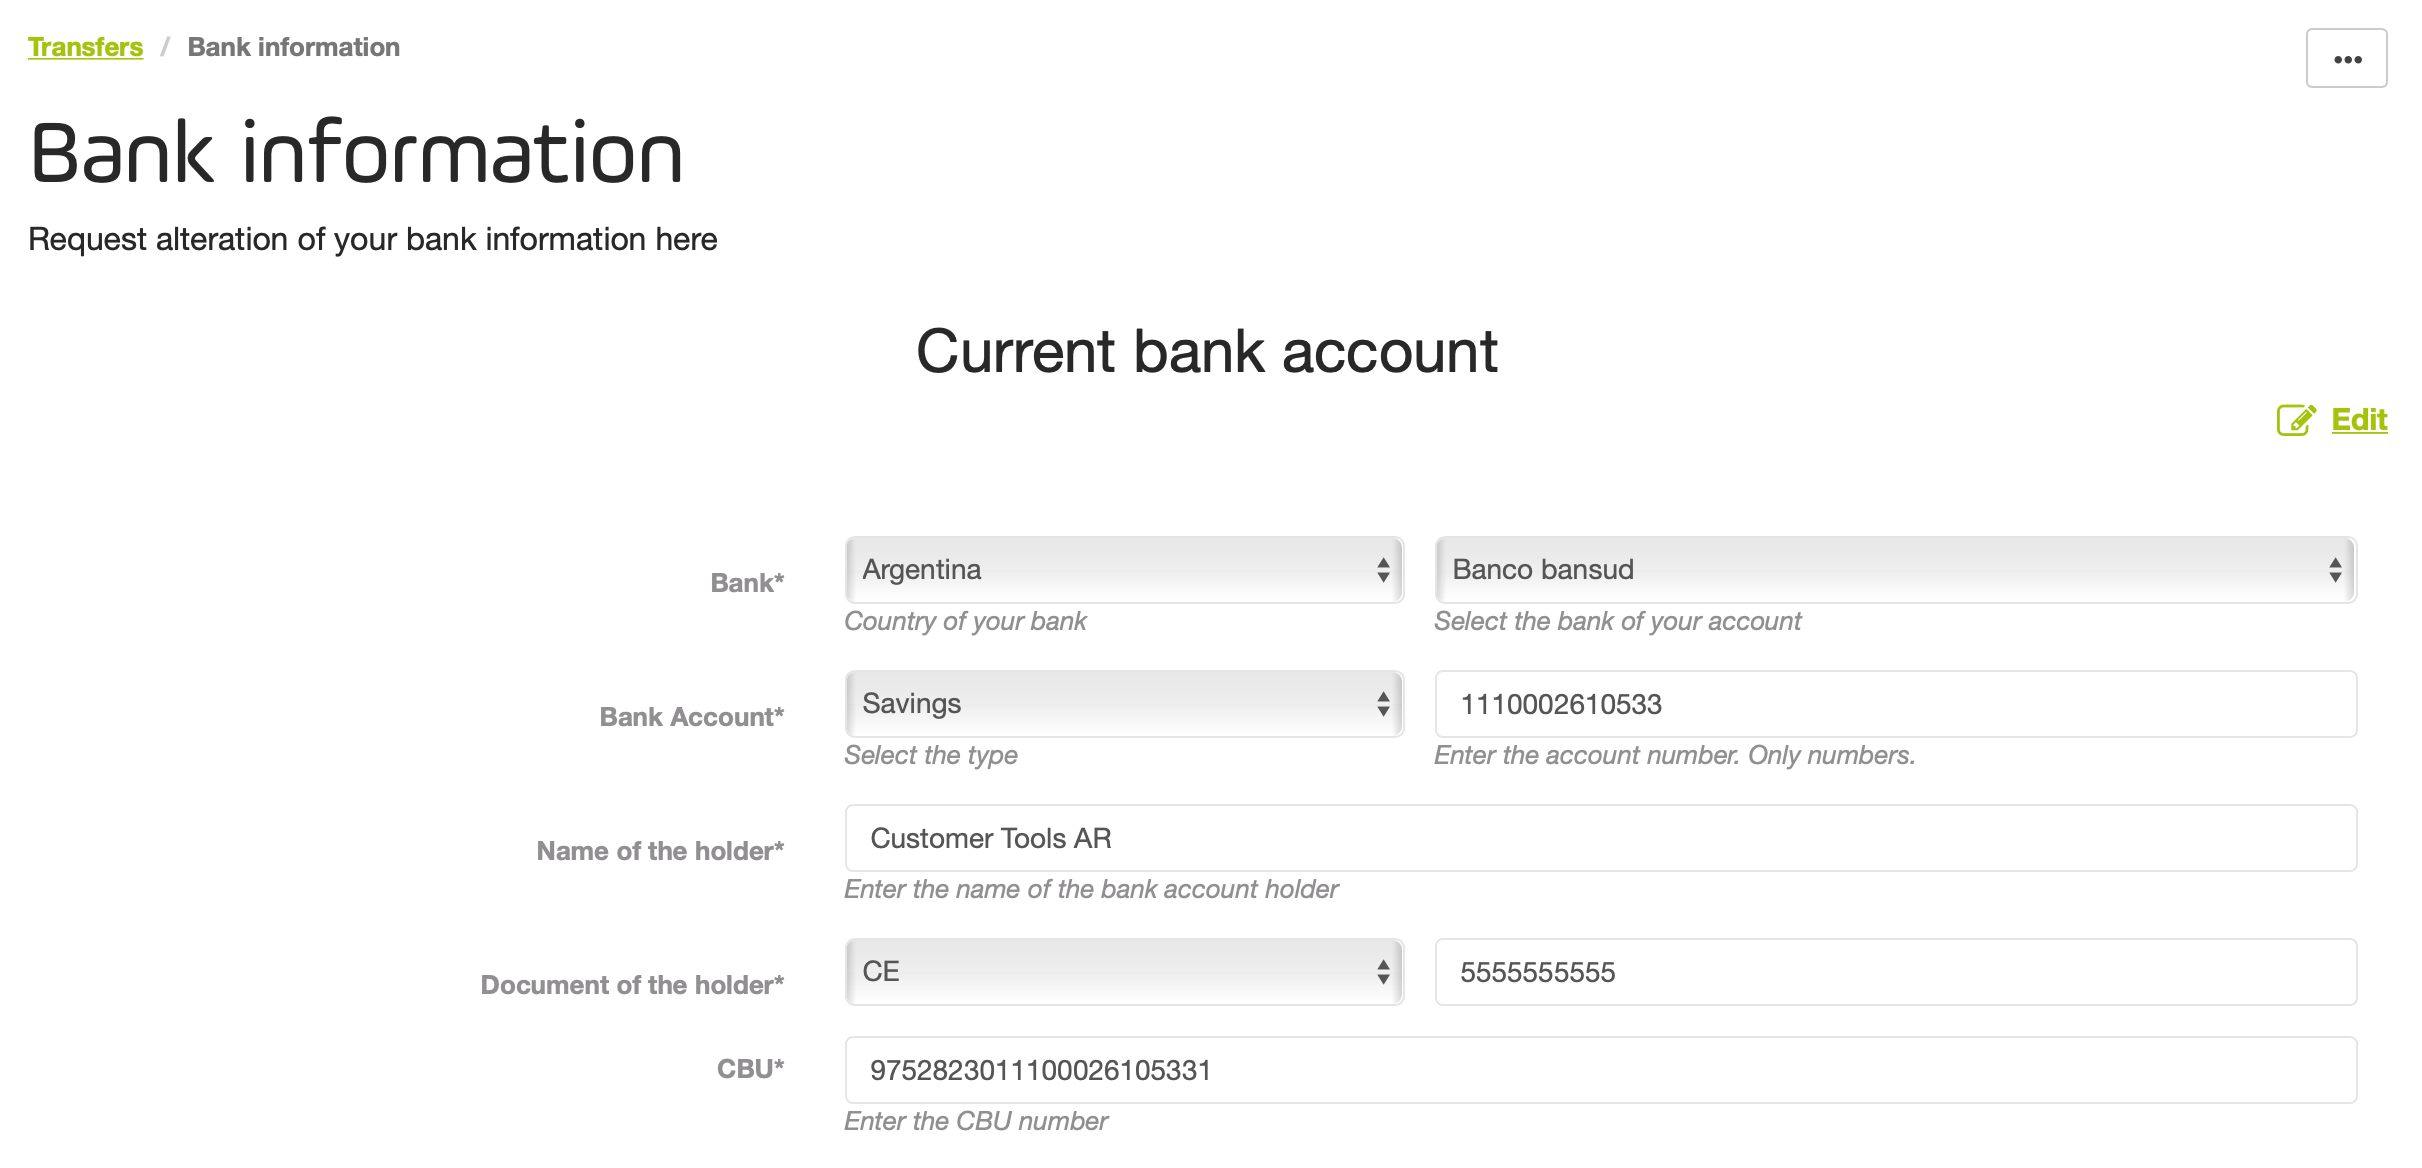
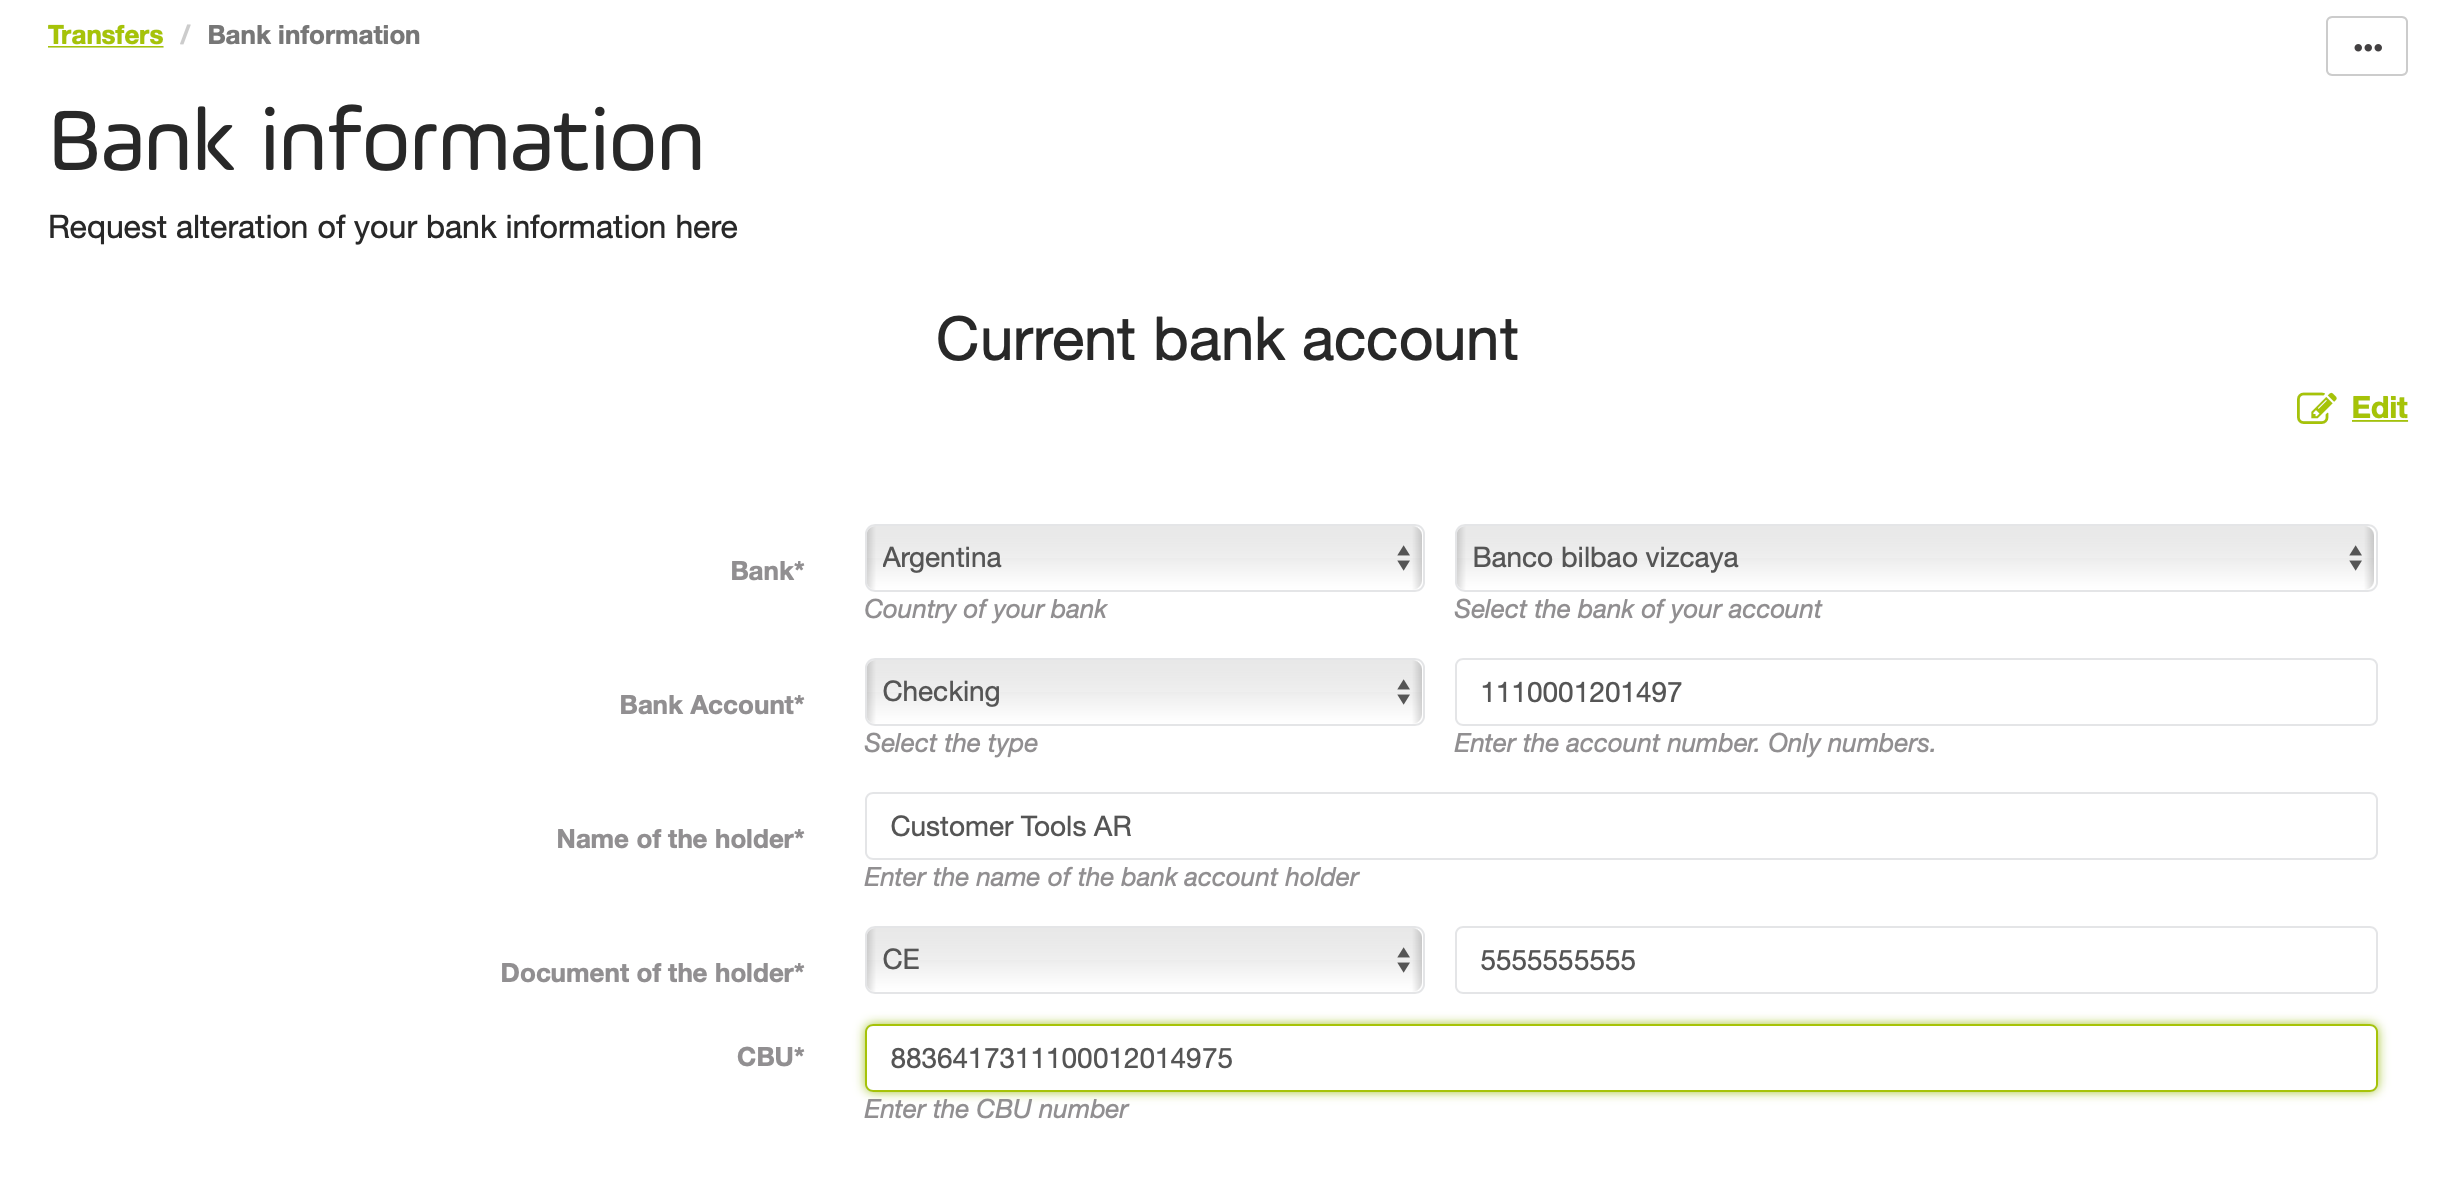
Bank information and user management

diff --git a/content/en/docs/Integrations/API integration/Payments-API-Brazil.md b/content/en/docs/Integrations/API integration/Payments-API-Brazil.md
@@ -151,6 +151,7 @@ This method lets you process the payments performed by your customers using cred
 </details>
 
 #### Considerations
+* If your commerce does not have a local entity, it is mandatory to send either the CPF (parameter `transaction.[payer|buyer].dniNumber`) or the CNPJ (parameter `transaction.[payer|buyer].cnpj`) when using [Authorization]({{< ref "payments-api-brazil.md#authorization" >}}) or [Charge]({{< ref "payments-api-brazil.md#charge" >}}).
 * For payments with credit card tokens, include the parameters `transaction.creditCardTokenId` and `transaction.creditCard.securityCode` replacing the information of the credit card (if you process with security code). For more information, refer to [Tokenization API]({{< ref "Tokenization-API.md" >}}).
 * By default, processing credit cards without security code is not enabled. If you want to enable this feature, contact your Sales representative. After this feature is enabled for you, send in the request the variable `creditCard.processWithoutCvv2` as true and remove the variable `creditCard.securityCode`.
 * The extra parameter `CIELO_TID` identifies the transaction, this parameter is needed when you want to process voids.
@@ -882,6 +883,7 @@ Pix has two parts:
 </details>
 
 #### Considerations
+* If your commerce does not have a local entity, it is mandatory to send either the CPF (parameter `transaction.[payer|buyer].dniNumber`) or the CNPJ (parameter `transaction.[payer|buyer].cnpj`) when using [Authorization]({{< ref "payments-api-brazil.md#authorization" >}}) or [Charge]({{< ref "payments-api-brazil.md#charge" >}}).
 * The QR code and the PIX key used to receive payments is generated by PayU, it is not supported to configure your own QR code nor PIX key. Nevertheless, the total of the transaction minus the commission fee is transferred to your PayU account.
 * The parameter `transactionResponse.extraParameters` has the following parameters related to the transaction:
    - **EXPIRATION_DATE**: deadline to make the payment.
@@ -1121,6 +1123,7 @@ This method lets you process the payments in cash of your customers. To integrat
 </details>
 
 #### Considerations
+* If your commerce does not have a local entity, it is mandatory to send either the CPF (parameter `transaction.[payer|buyer].dniNumber`) or the CNPJ (parameter `transaction.[payer|buyer].cnpj`) when using [Authorization]({{< ref "payments-api-brazil.md#authorization" >}}) or [Charge]({{< ref "payments-api-brazil.md#charge" >}}).
 * The parameter `transaction.expirationDate` is not mandatory. If you don't send this parameter, its default value for is seven (7) days after the current date.
 * The payment is reflected in the next business day.
 * The parameter `transactionResponse.extraParameters` has the following parameters related to the transaction:
@@ -1445,6 +1448,7 @@ To integrate with these transactions, you must redirect the customer to the URL 
 </details>
 
 #### Considerations
+* If your commerce does not have a local entity, it is mandatory to send either the CPF (parameter `transaction.[payer|buyer].dniNumber`) or the CNPJ (parameter `transaction.[payer|buyer].cnpj`) when using [Authorization]({{< ref "payments-api-brazil.md#authorization" >}}) or [Charge]({{< ref "payments-api-brazil.md#charge" >}}).
 * The parameter `transaction.expirationDate` is not mandatory. If you don't send this parameter, its default value for is four (4) day after the current date.
 * When the payer selects this payment method, PayU creates an order in _in progress_ state and a transaction in `PENDING`state.
 * In the response body, you can find the receipt generated by PayU and the expiration date.

diff --git a/content/en/PayU Module Documentation/Getting started/Understanding the PayU module/Update-my-information.md b/content/en/PayU Module Documentation/Getting started/Understanding the PayU module/Update-my-information.md
@@ -92,4 +92,27 @@ The _**Bank information option**_ opens, click the _**Edit**_ link to enable the
 
 ![PrintScreen](/assets/BankInformation/BankInformation_02.png)
 
+Provide the information related to your Bank Account such as: country, bank, account number, etc. 
 
+![PrintScreen](/assets/BankInformation/BankInformation_03.png)
+
+{{% alert title="Considerations" color="info"%}}
+* The information available depends on the country of your account.
+* If the Bank account is foreign, you must provide the information of the **Intermediary bank** such as its name, the _ABA code_, and the _Swift code_.
+{{% /alert %}}
+
+Along with the information you provide, you need to attach a certification issued by your bank to proof the veracity and authenticity of the information. 
+
+![PrintScreen](/assets/BankInformation/BankInformation_04.png)
+
+When finish, click _**Save changes**_. When the information is submitted, you are prompted about the result of the operation.
+
+<img src="/assets/BankInformation/BankInformation_05.png" alt="PrintScreen" width="50%"/><br>
+
+Furthermore, you receive an email informing the request and providing a ticket number.
+
+The procedure to validate your account take up two working days. In the meantime, the information you provide is loaded in the **_Bank account under analysis_** panel.
+
+![PrintScreen](/assets/BankInformation/BankInformation_06.png)
+
+As soon as your bank account information has been validated by our Risk team, you can transfer to it the funds collected in your PayU account. While the new account is under validation, the transfers you make are sent to the former bank account.

diff --git a/content/en/PayU Module Documentation/User and Profile management/_index.md b/content/en/PayU Module Documentation/User and Profile management/_index.md
@@ -1,0 +1,11 @@
+---
+title: "User & Profile management"
+linkTitle: "User & Profile management"
+date: 2021-08-26T15:41:06-05:00
+type: docs
+Description: >
+  Learn how to manage users, profiles and permissions to access the accounts in your merchants.
+weight: 20
+nosidetoc: true
+---
+

diff --git a/content/en/PayU Module Documentation/Getting started/_index.md b/content/en/PayU Module Documentation/Getting started/_index.md
@@ -1,5 +1,6 @@
 ---
 title: "Getting Started"
+linkTitle: "Getting Started"
 date: 2021-03-31T08:28:16-05:00
 type: docs
 Description: >

diff --git a/content/en/PayU Module Documentation/User and Profile management/User-management.md b/content/en/PayU Module Documentation/User and Profile management/User-management.md
@@ -1,0 +1,6 @@
+---
+title: "User Management"
+date: 2021-08-27T08:43:01-05:00
+draft: true
+---
+
